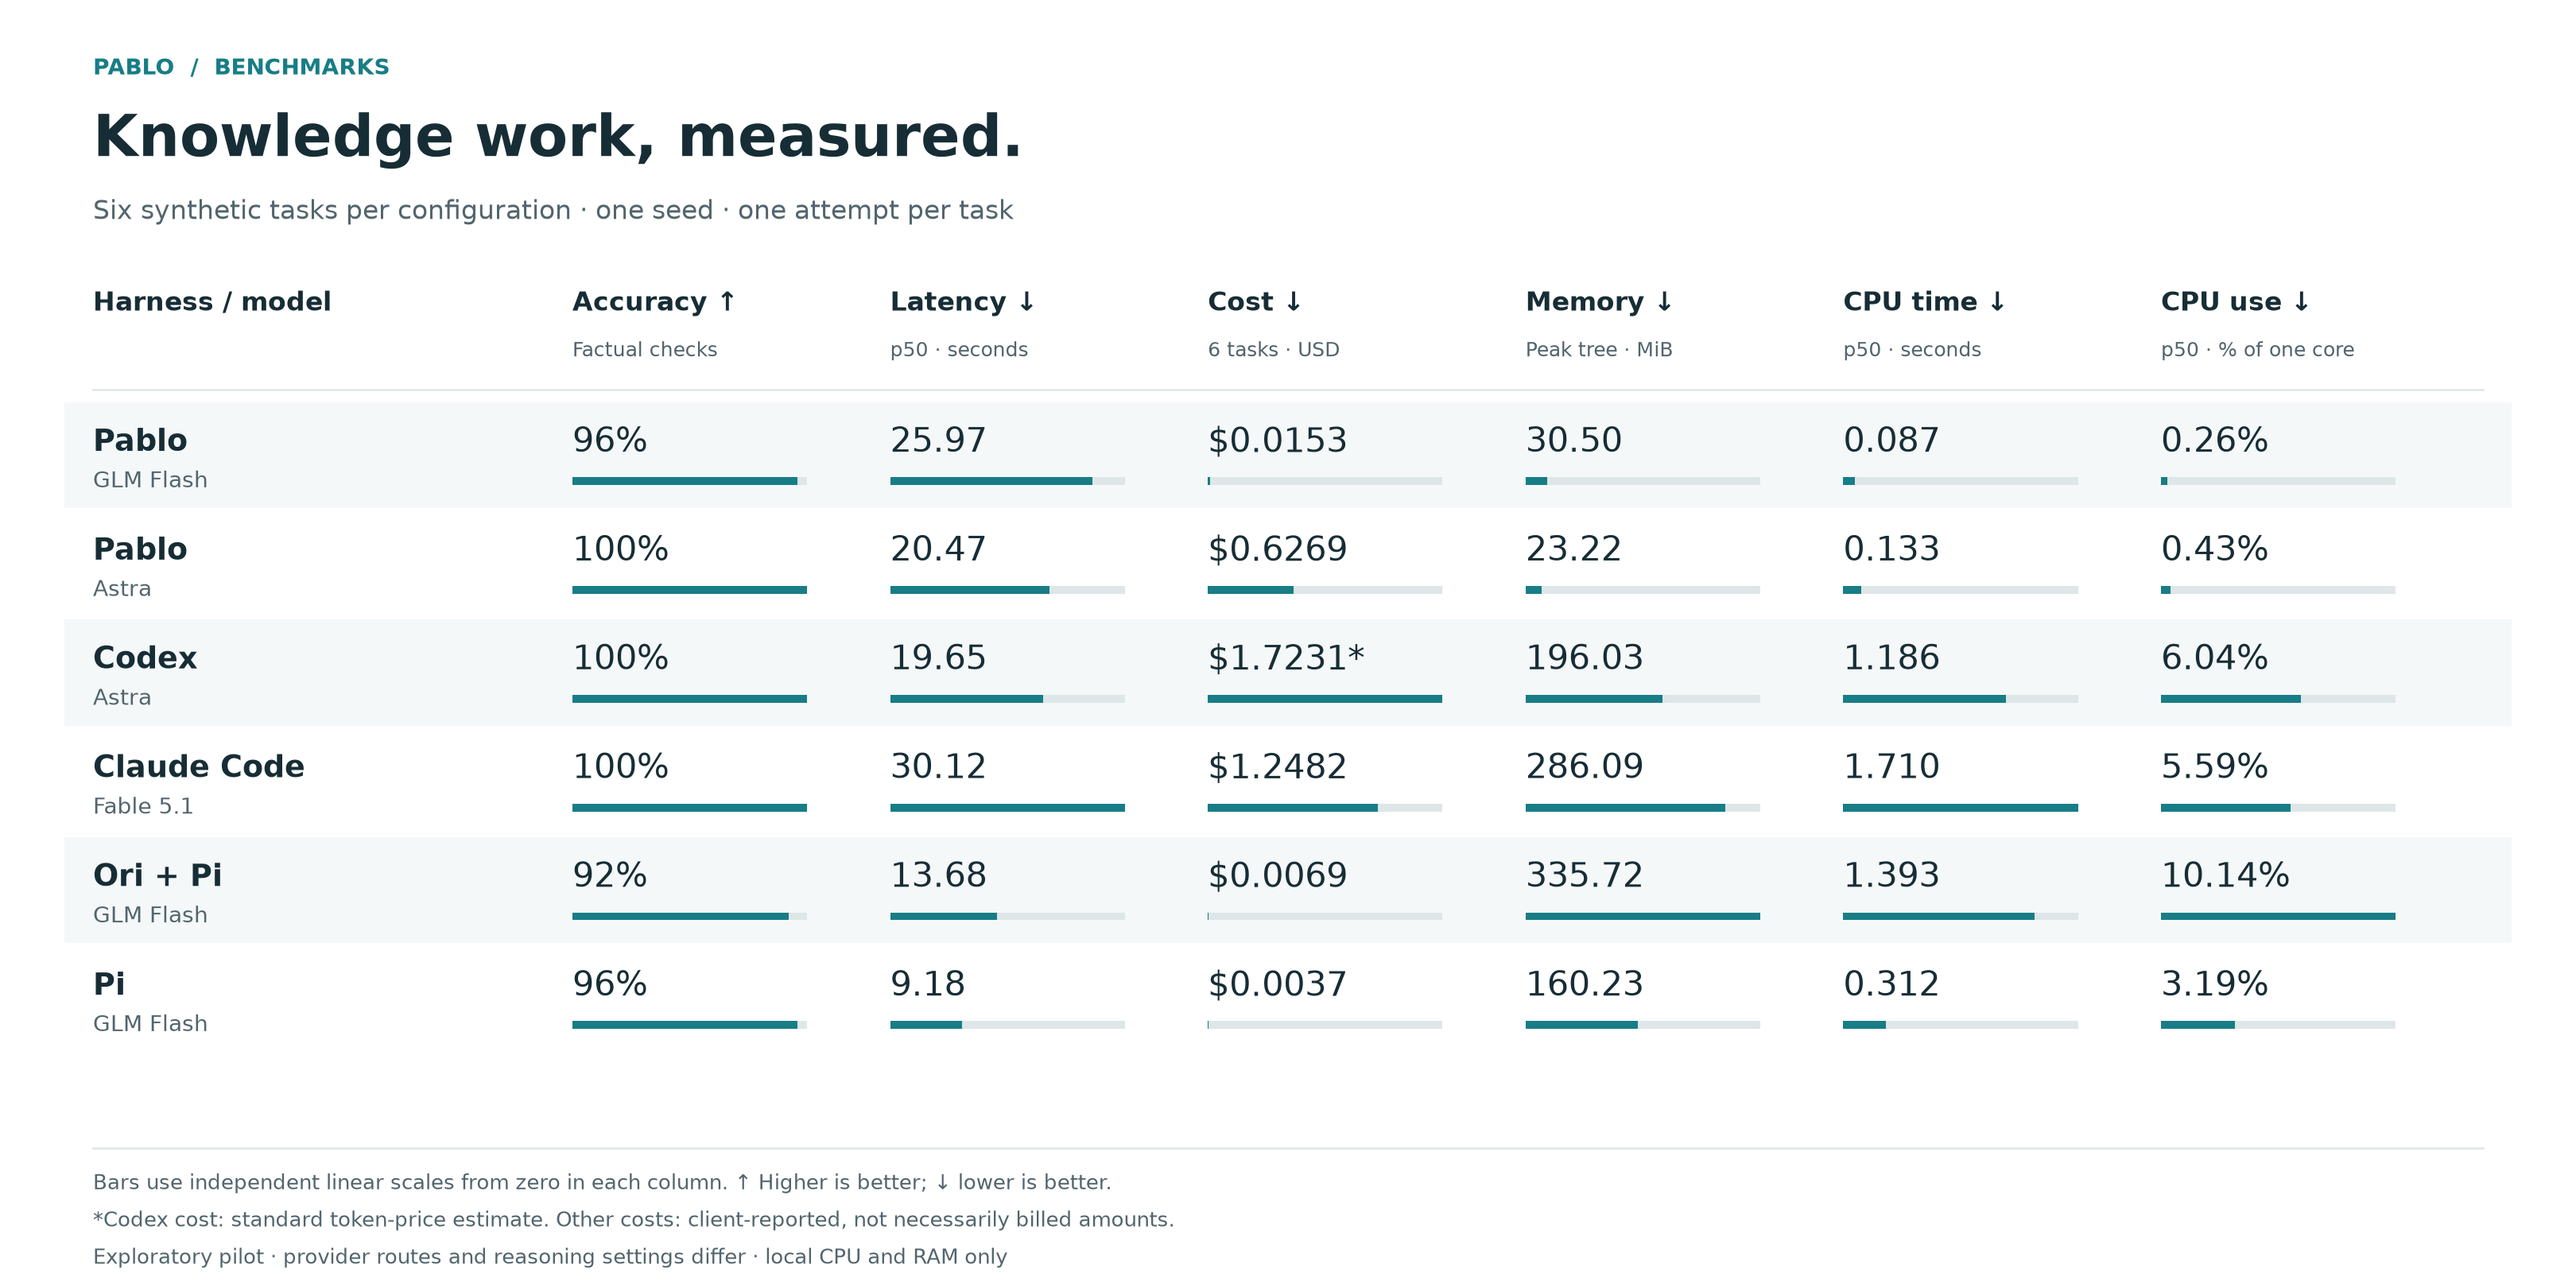
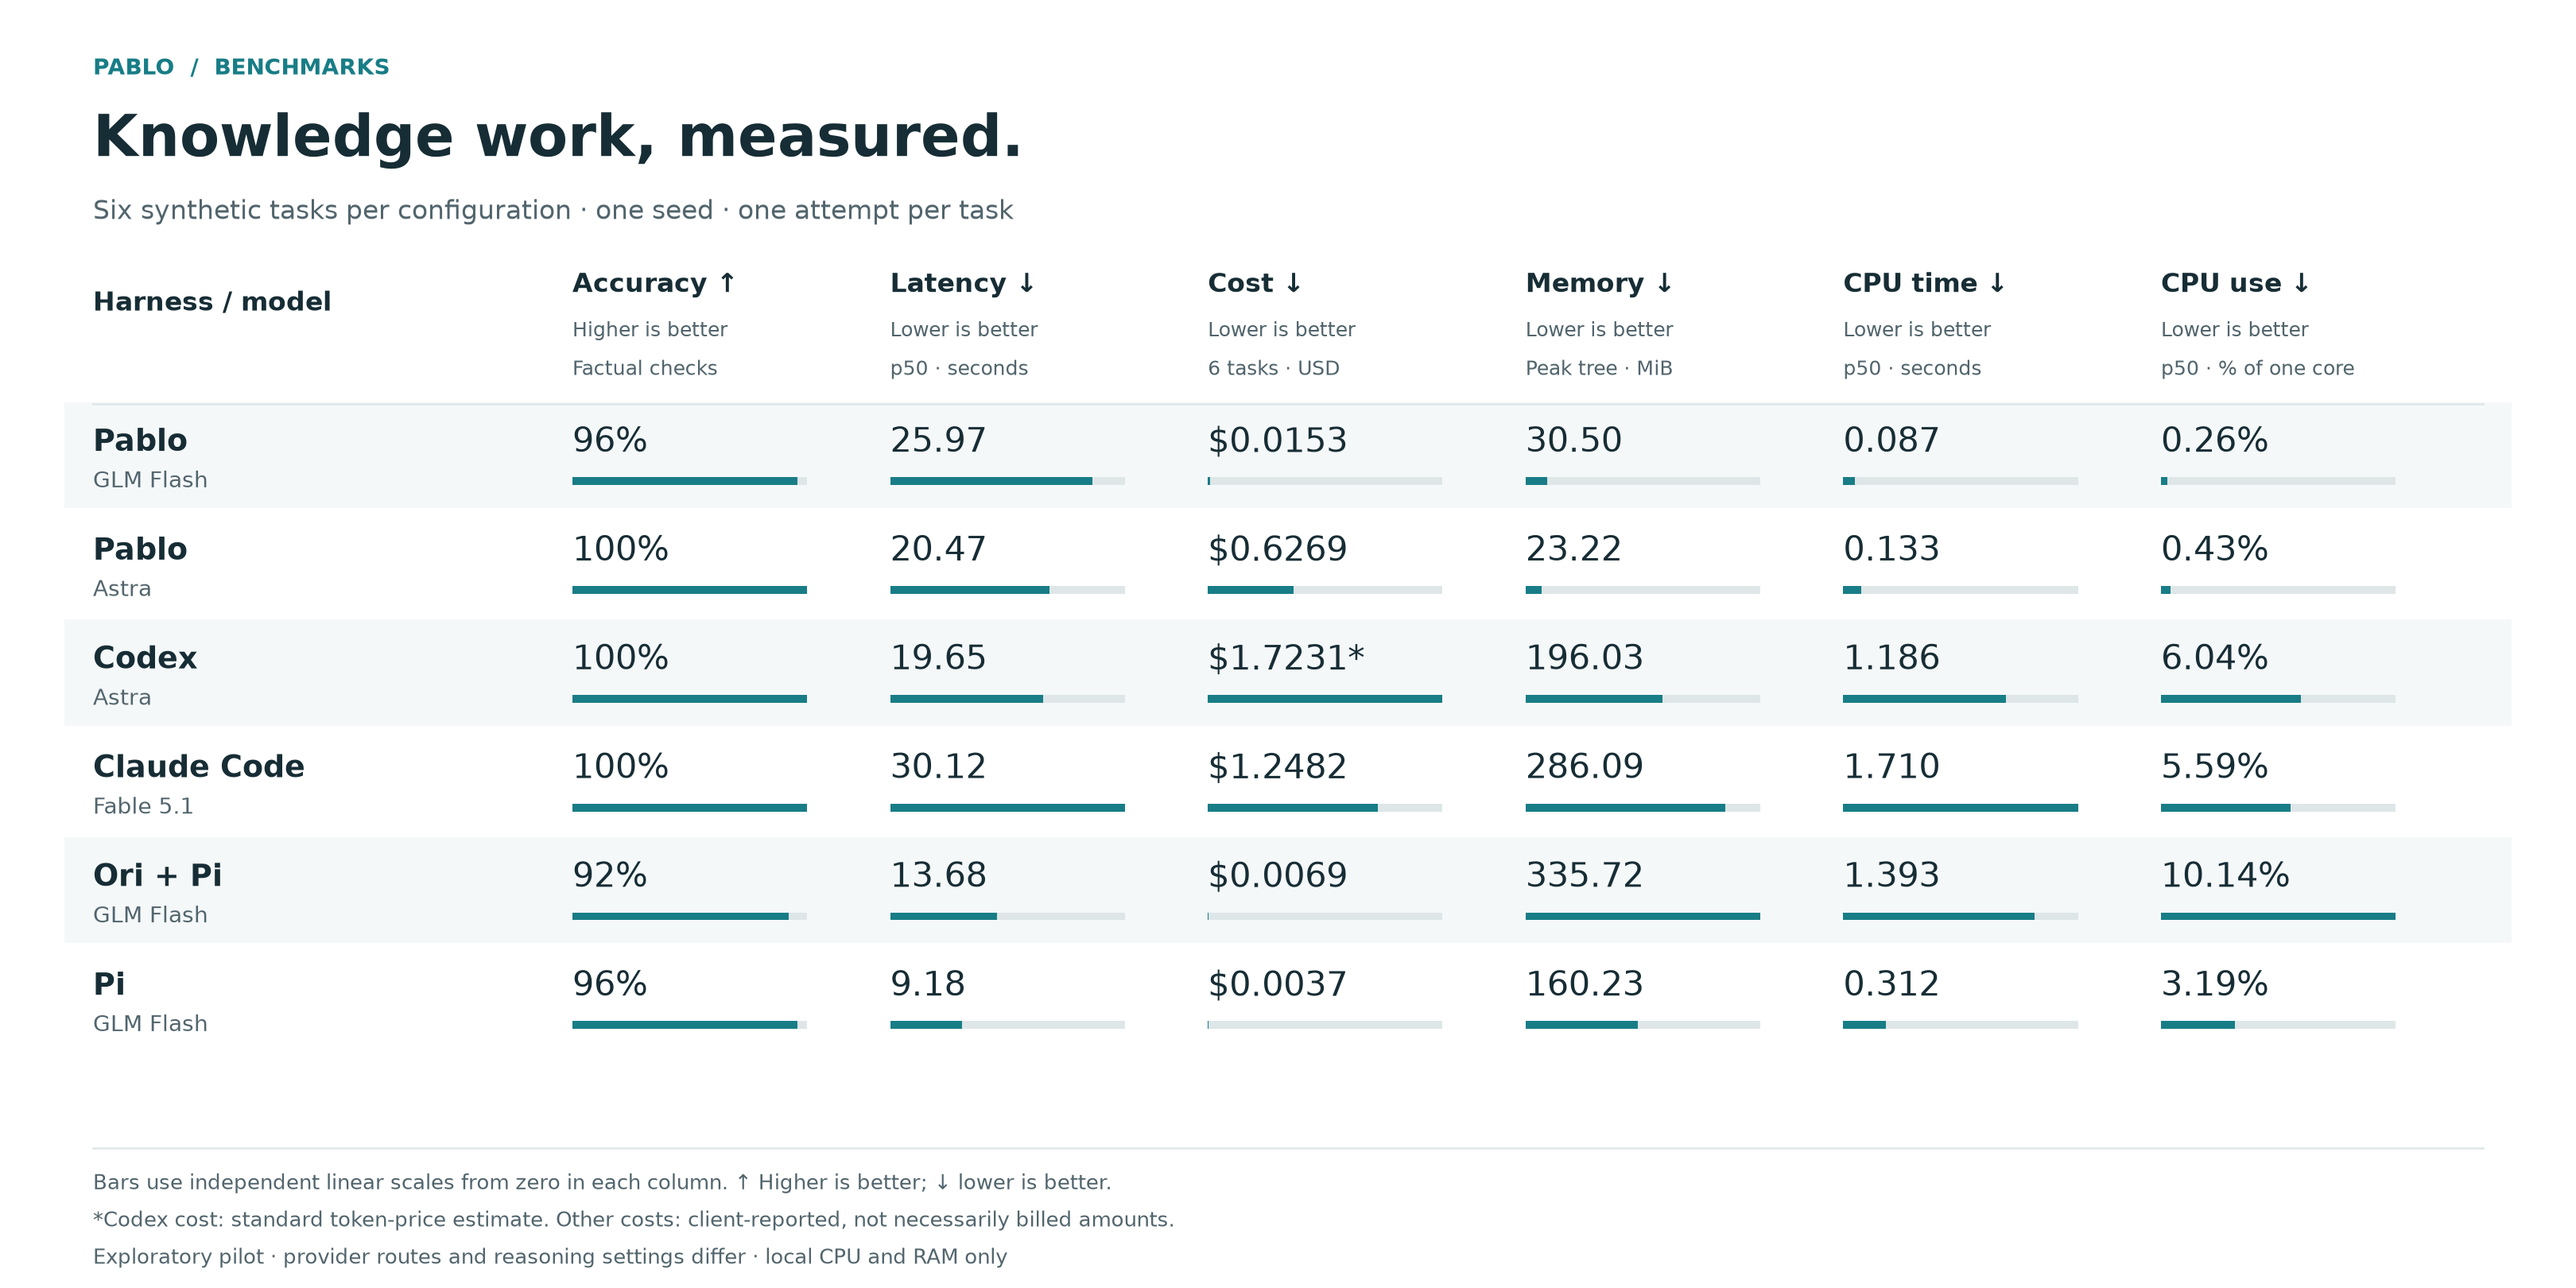
Label benchmark metric improvement directions

diff --git a/scripts/knowledge-work/plot.py b/scripts/knowledge-work/plot.py
@@ -46,9 +46,10 @@ def render(source, destination):
     starts = [4.00, 6.22, 8.44, 10.66, 12.88, 15.10]
     ax.text(.65, 6.83, 'Harness / model', color=ink, fontsize=13, weight='bold')
     for x, (title, subtitle, _, _, _) in zip(starts, columns):
-        ax.text(x, 6.83, title, color=ink, fontsize=13, weight='bold')
-        ax.text(x, 6.51, subtitle, color=muted, fontsize=10)
-    ax.plot([.65, 17.35], [6.28, 6.28], color=rule, lw=1)
+        ax.text(x, 6.96, title, color=ink, fontsize=13, weight='bold')
+        ax.text(x, 6.65, 'Higher is better' if title.startswith('Accuracy') else 'Lower is better', color=muted, fontsize=10)
+        ax.text(x, 6.38, subtitle, color=muted, fontsize=10)
+    ax.plot([.65, 17.35], [6.18, 6.18], color=rule, lw=1)
     row_step = .76
     for i, (h, rows) in enumerate(groups.items()):
         y = 5.88-i*row_step

diff --git a/docs/project/evidence/c3.33b-knowledge.md b/docs/project/evidence/c3.33b-knowledge.md
@@ -63,3 +63,5 @@ C3.33b and the requested six-configuration pilot are complete. Increase seeds/re
 ## Graphic readability follow-up
 
 Replaced six repeated chart panels with one aligned comparison: a shared harness/model label, larger numeric values, alternating row shading and compact bars with independent zero-based column scales. All six requested metrics and the cost-estimate note remain visible. Rendered PNG/SVG were visually inspected for legibility and clipping; the measurement JSON is byte-identical to the prior committed results. No provider runs or scoring changes were needed.
+
+Added explicit “Higher is better” beneath accuracy and “Lower is better” beneath the five resource/time/cost headings. Regenerated PNG/SVG and visually verified header spacing; measurements are unchanged.
